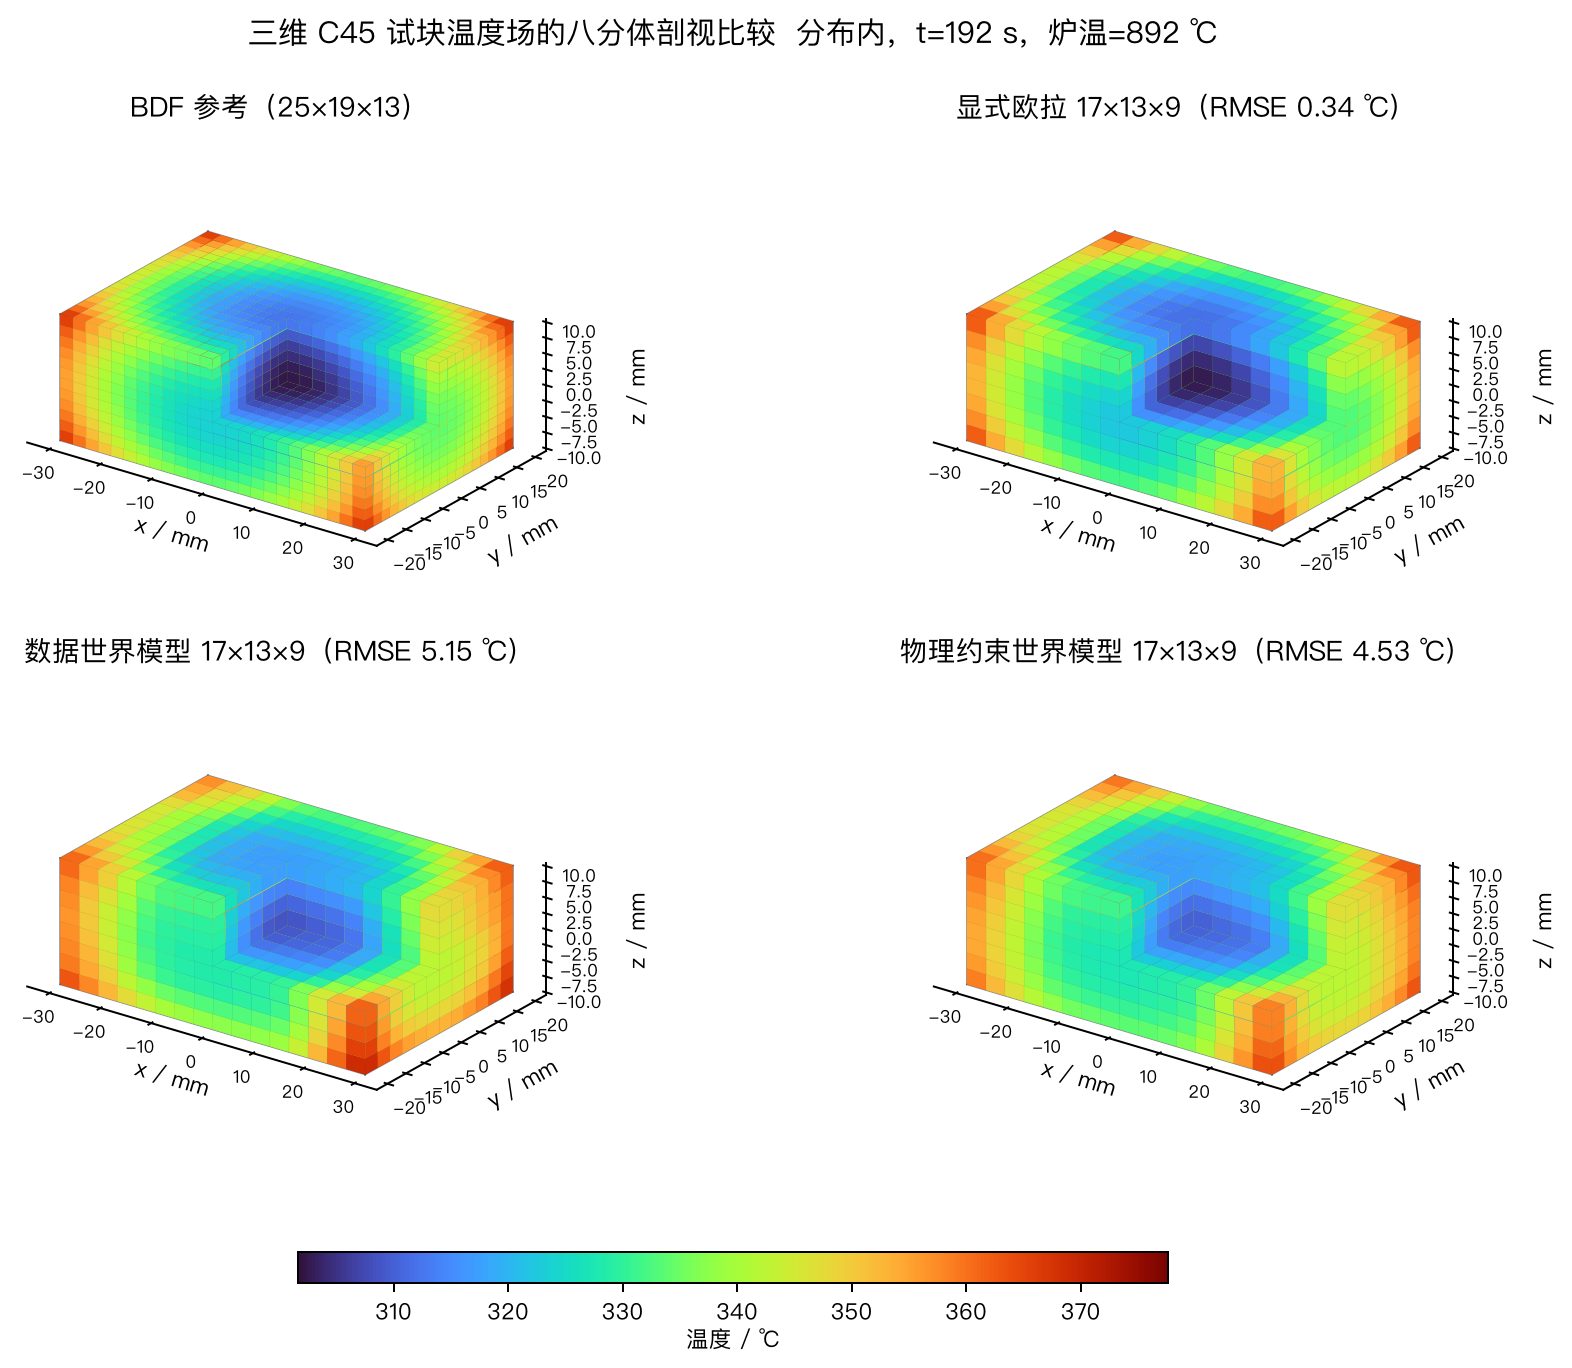
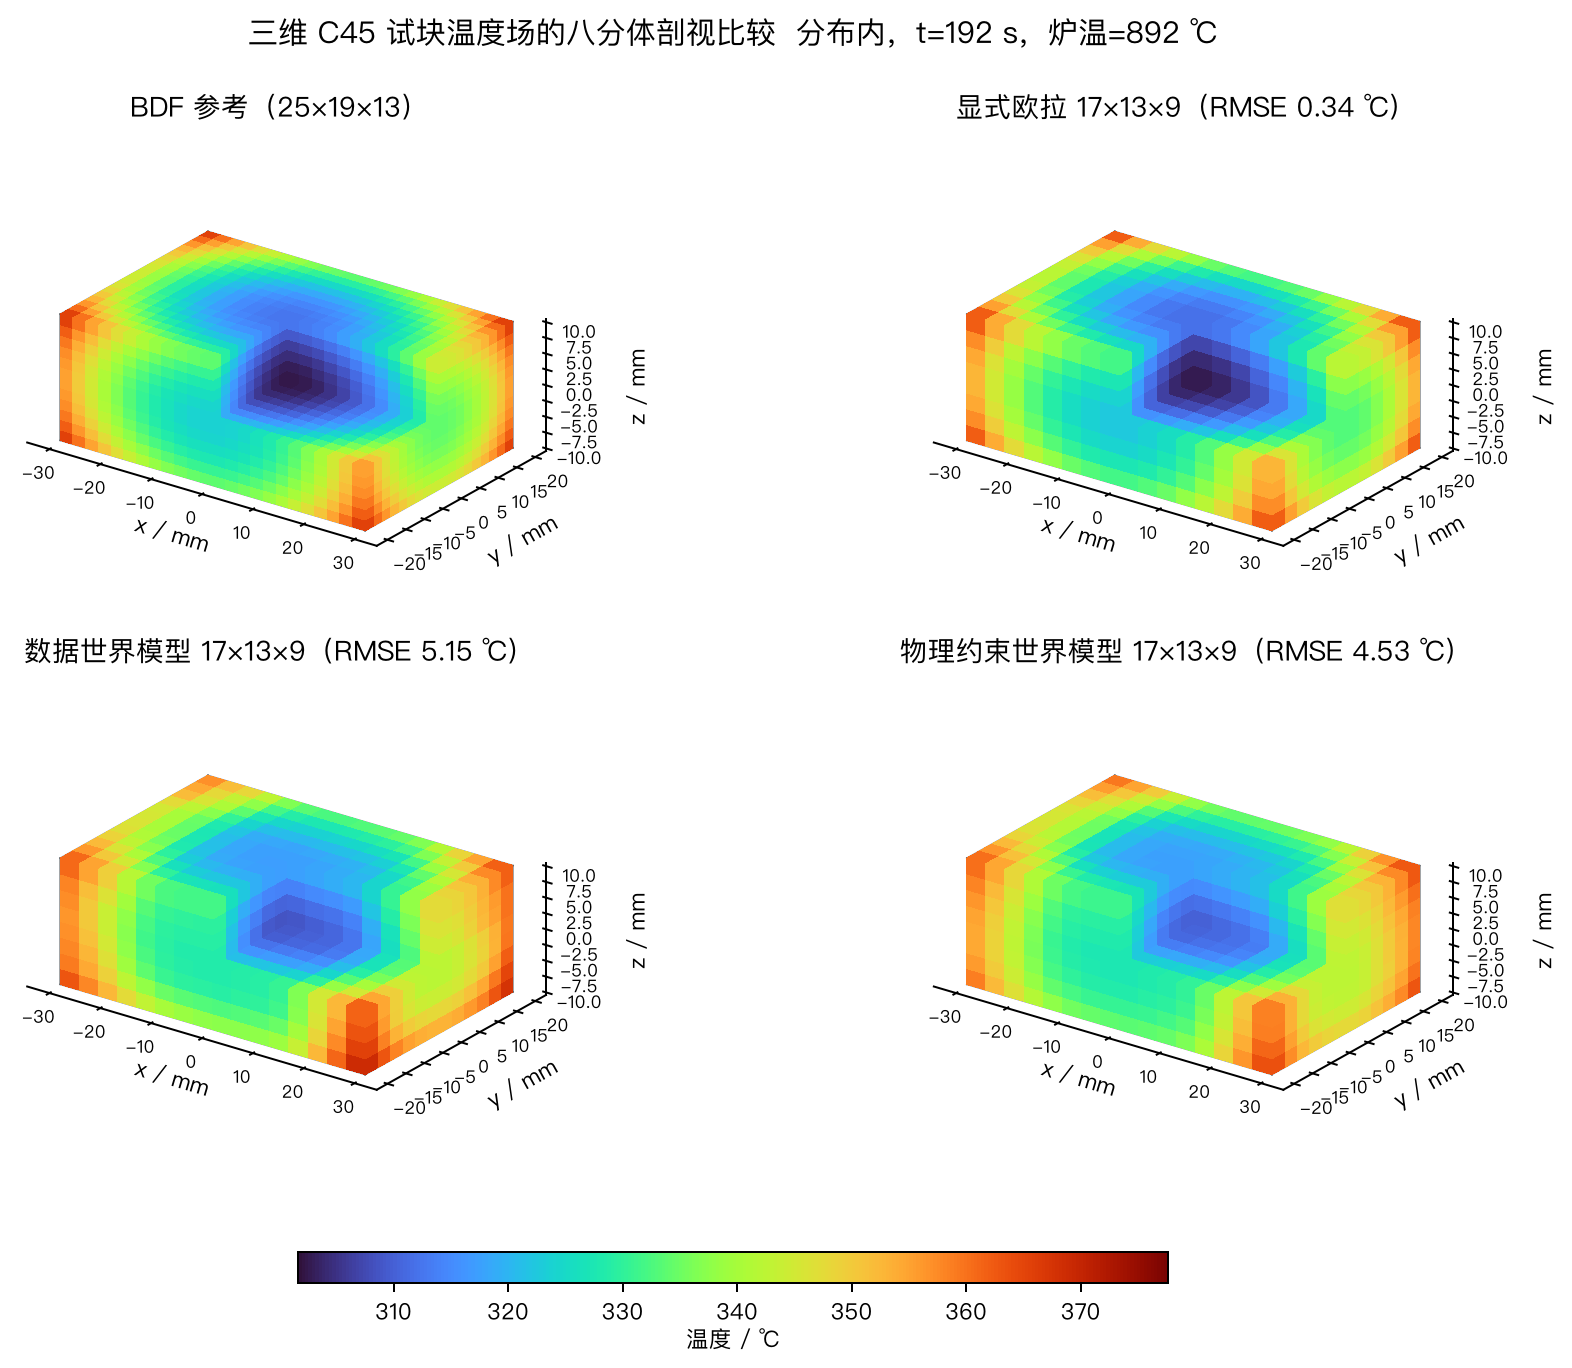
figures: remove voxel edges from 3D comparison

diff --git a/scripts/analyze_three_dimensional_world_model.py b/scripts/analyze_three_dimensional_world_model.py
@@ -39,6 +39,16 @@ def parse_args() -> argparse.Namespace:
         default="control_ood",
     )
     parser.add_argument("--reference-shape", type=int, nargs=3, default=(21, 15, 9))
+    parser.add_argument(
+        "--show-voxel-edges",
+        action="store_true",
+        help="Show internal voxel edge lines; hidden by default for paper figures.",
+    )
+    parser.add_argument(
+        "--preview-only",
+        action="store_true",
+        help="Render the requested figure without updating analysis and metric files.",
+    )
     return parser.parse_args()
 
 
@@ -100,6 +110,7 @@ def draw_cutaway(
     coordinates_mm: tuple[np.ndarray, np.ndarray, np.ndarray],
     norm: mpl.colors.Normalize,
     title: str,
+    hide_voxel_edges: bool = False,
 ) -> None:
     x, y, z = coordinates_mm
     cell_temperature = 0.125 * (
@@ -128,8 +139,9 @@ def draw_cutaway(
         *edge_grid,
         filled,
         facecolors=facecolors,
-        edgecolor=(0.18, 0.20, 0.22, 0.13),
-        linewidth=0.12,
+        edgecolor="none" if hide_voxel_edges else (0.18, 0.20, 0.22, 0.13),
+        linewidth=0.0 if hide_voxel_edges else 0.12,
+        antialiased=not hide_voxel_edges,
         shade=False,
     )
     draw_cuboid_edges(axis, (float(np.ptp(x)), float(np.ptp(y)), float(np.ptp(z))))
@@ -378,7 +390,14 @@ def main() -> None:
     ):
         axis = figure.add_subplot(2, 2, panel, projection="3d")
         coordinates_mm = tuple(axis_values * 1000.0 for axis_values in coordinates)
-        draw_cutaway(axis, field, coordinates_mm, norm, title)
+        draw_cutaway(
+            axis,
+            field,
+            coordinates_mm,
+            norm,
+            title,
+            hide_voxel_edges=not args.show_voxel_edges,
+        )
     figure.suptitle(
         "三维 C45 试块温度场的八分体剖视比较  "
         f"{split_title}，t={times[snapshot]:.0f} s，"
@@ -403,8 +422,14 @@ def main() -> None:
     )
     figure_path.parent.mkdir(parents=True, exist_ok=True)
     figure.savefig(figure_path, bbox_inches="tight", facecolor="white")
-    figure.savefig(output / figure_path.name, bbox_inches="tight", facecolor="white")
+    if not args.preview_only:
+        figure.savefig(output / figure_path.name, bbox_inches="tight", facecolor="white")
     plt.close(figure)
+
+    if args.preview_only:
+        print(json.dumps(analysis["figure_case"], ensure_ascii=False, indent=2))
+        print(f"figure: {figure_path}")
+        return
 
     analysis_path = output / "three_dimensional_analysis.json"
     analysis_path.write_text(
